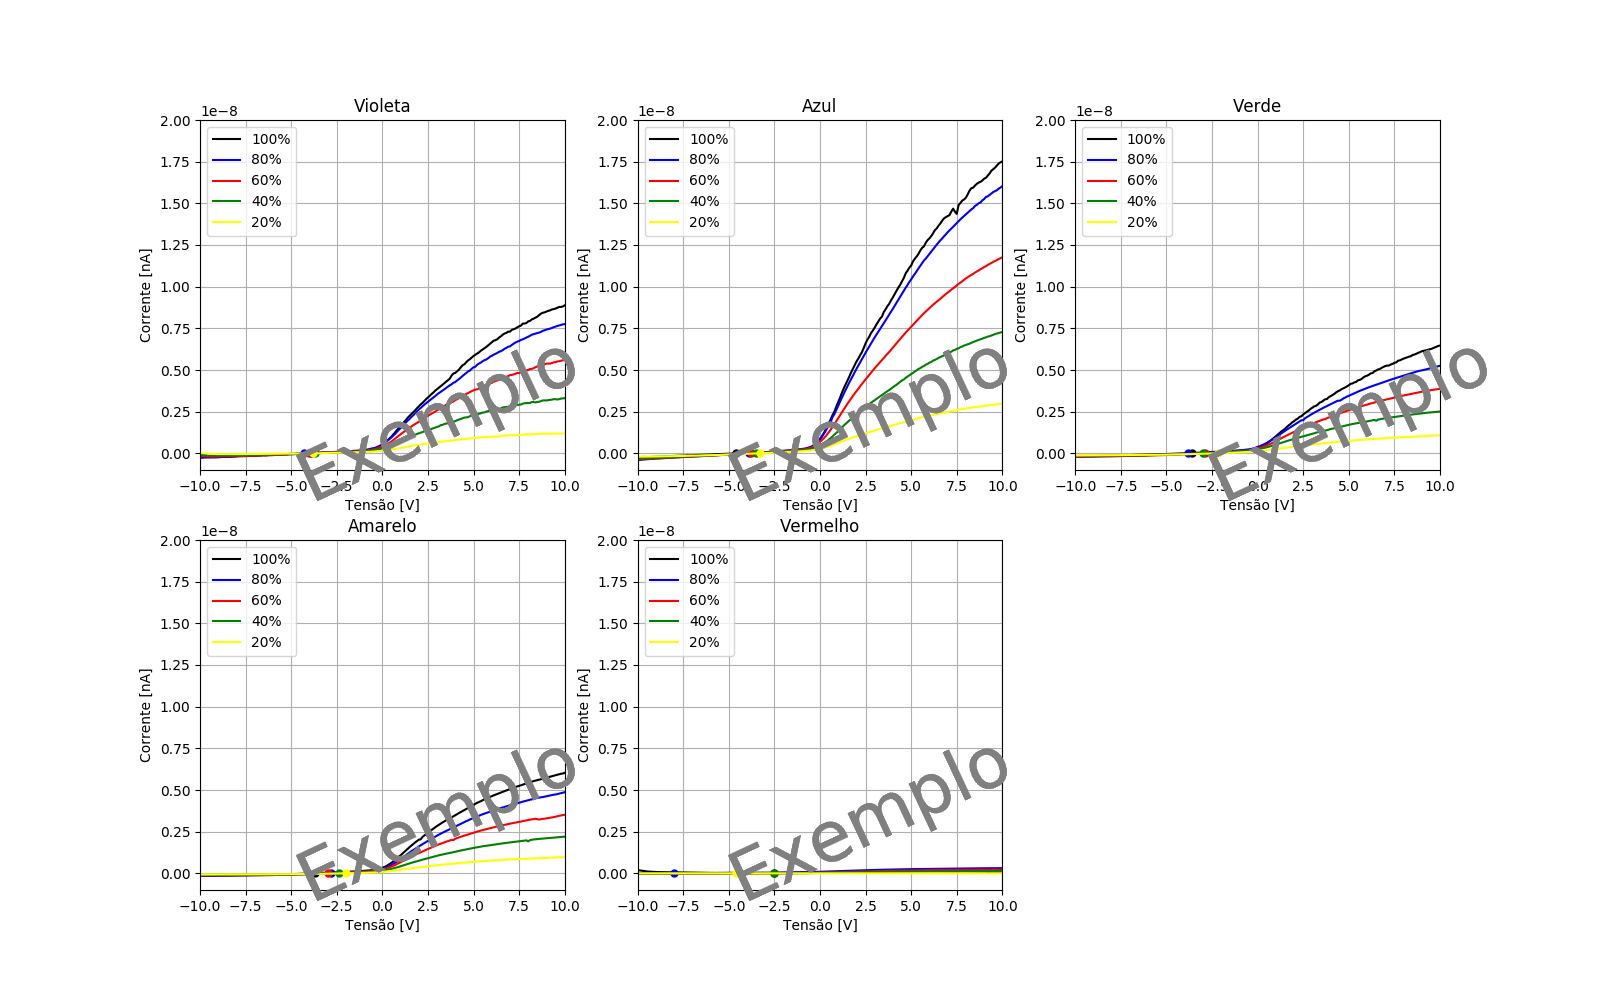
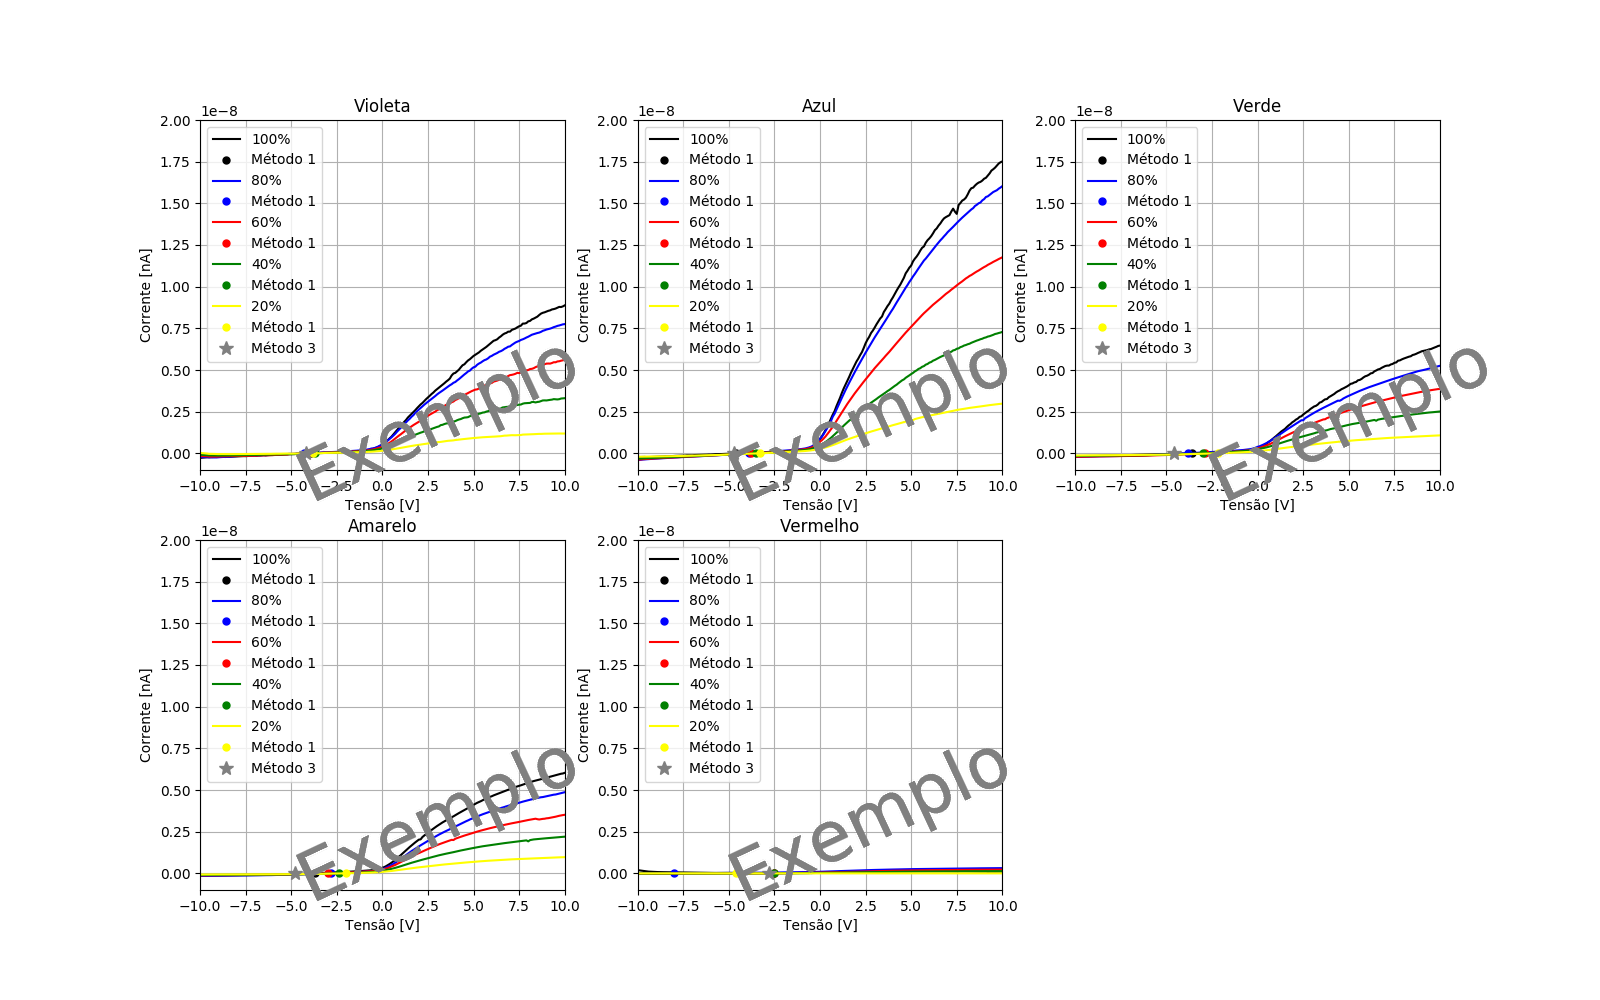
Version 5.2 - Add Method 3

diff --git a/medida.py b/medida.py
@@ -1,8 +1,8 @@
 ################################################################
 # Redução de Dados Física Experimental V - Efeito Fotoelétrico #
 # Matheus J. Castro                                            #
-# Version 4.1                                                  #
-# Last Modification: 7 de Março de 2020                        #
+# Version 5.2                                                  #
+# Last Modification: 8 de Março de 2020                        #
 ################################################################
 
 import numpy as np
@@ -12,7 +12,9 @@ import matplotlib.pyplot as plt
 cores = ["violeta", "azul", "verde", "amarelo", "vermelho"]
 intensidade = [100, 80, 60, 40, 20]
 dias = ["0503", "0603"]  # modifique essa lista colocando os dias que houve tomada de dados
-                         # apenas fomato DDMM entre aspas duplas
+
+
+# apenas fomato DDMM entre aspas duplas
 
 
 def input_data():
@@ -49,14 +51,14 @@ def noise_removal(final_data, noise_bias, noise_lamp, bias=1, lamp=1):
                 if i in final_data and j in final_data[i] and k in final_data[i][j]:
                     reduce = []
                     for m in range(len(noise_bias[0])):
-                        reduce.append(final_data[i][j][k][m][1] - (bias*noise_bias[dias.index(i)][m][1] +
-                                                                   lamp*noise_lamp[dias.index(i)][m][1]))
+                        reduce.append(final_data[i][j][k][m][1] - (bias * noise_bias[dias.index(i)][m][1] +
+                                                                   lamp * noise_lamp[dias.index(i)][m][1]))
                     final_data[i][j][k] = [final_data[i][j][k].T[0], reduce]
 
     return final_data
 
 
-def plot_all(data, method_1, save=False, show_meth_1=False):
+def plot_all(data, meth_1, meth_3, save=False, show_meth_1=False, show_meth_3=False):
     color = {100: "black", 80: "blue", 60: "red", 40: "green", 20: "yellow"}
     if (len(cores) % 2) == 0:
         col = len(cores) / 2
@@ -66,7 +68,7 @@ def plot_all(data, method_1, save=False, show_meth_1=False):
     plt.figure(figsize=(16, 10))
 
     for j in range(len(cores)):
-        plt.subplot(2, col, j+1)
+        plt.subplot(2, col, j + 1)
         plt.xlabel("Tensão [V]")
         plt.ylabel("Corrente [nA]")
         plt.title(cores[j].capitalize())
@@ -85,7 +87,9 @@ def plot_all(data, method_1, save=False, show_meth_1=False):
                     y = np.array(data[i][cores[j]][k][1])
                     legenda.append(plt.plot(x, y, "-", markersize=1, color=color[k], label="{}%".format(k)))
                     if show_meth_1:
-                        plt.plot(method_1["{}_{}_{}".format(i, cores[j], k)], 0, ".", markersize=10, color=color[k])
+                        plt.plot(meth_1["{}_{}_{}".format(i, cores[j], k)], 0, ".", markersize=10, color=color[k], label="Método 1")
+        if show_meth_3:
+            plt.plot(meth_3["{}".format(cores[j])], 0, "*", markersize=10, color="gray", label="Método 3")
         plt.legend(loc="upper left")
         plt.grid()
 
@@ -94,7 +98,7 @@ def plot_all(data, method_1, save=False, show_meth_1=False):
     plt.show()
 
 
-def plot_same_intensity(data, method_1, k=100, save=False, show_meth_1=False):
+def plot_same_intensity(data, meth_1, meth_3, k=100, save=False, show_meth_1=False, show_meth_3=False):
     color = {cores[0]: "violet", cores[1]: "blue", cores[2]: "green", cores[3]: "yellow", cores[4]: "red"}
 
     plt.figure(figsize=(8, 4.5))
@@ -111,7 +115,9 @@ def plot_same_intensity(data, method_1, k=100, save=False, show_meth_1=False):
                 y = np.array(data[i][j][k][1])
                 plt.plot(x, y, "-", markersize=1, color=color[j], label=j.capitalize())
                 if show_meth_1:
-                    plt.plot(method_1["{}_{}_{}".format(i, j, k)], 0, ".", markersize=10, color=color[j])
+                    plt.plot(meth_1["{}_{}_{}".format(i, j, k)], 0, ".", markersize=10, color=color[j])
+        if show_meth_3:
+            plt.plot(meth_3["{}".format(j)], 0, "*", markersize=10, color=color[j])
     plt.legend()
     plt.grid()
 
@@ -152,13 +158,55 @@ def method_1(data, save=False):
     return results
 
 
+def method_3(data, save=False):
+    results = {}
+    for j in cores:
+        par_result = []
+        for k in range(len(intensidade)):
+            cur = True
+            las = True
+            current = []
+            last = []
+            while (cur is True) or (las is True):
+                for i in dias:
+                    if j in data[i] and intensidade[k] in data[i][j]:
+                        current = data[i][j][intensidade[k]]
+                        cur = False
+                    if j in data[i] and intensidade[k - 1] in data[i][j]:
+                        last = data[i][j][intensidade[k - 1]]
+                        las = False
+            compar = []
+            for m in range(len(current[1])):
+                if current[1][m] - last[1][m] < 0:
+                    compar.append([current[0][m], -(current[1][m] - last[1][m])])
+                else:
+                    compar.append([current[0][m], current[1][m] - last[1][m]])
+            compar = np.asarray(compar).T
+            par_result.append(compar[0][list(compar[1]).index(min(compar[1]))])
+
+            par_result.sort()
+            if len(par_result) % 2 == 1:
+                results["{}".format(j)] = par_result[len(par_result) // 2]
+            elif len(par_result) % 2 == 0:
+                results["{}".format(j)] = np.mean([par_result[len(par_result) // 2 - 1],
+                                                   par_result[len(par_result) // 2]])
+    if save:
+        if not os.path.exists("reduced_data"):
+            os.mkdir("reduced_data")
+        np.savetxt("reduced_data/3st_method_results.csv", list(results.items()), fmt="%s", delimiter=",")
+
+    return results
+
+
 results_1 = {}
+results_2 = {}
 dt, noi_bias, noi_lamp = input_data()
-reduced = noise_removal(dt, noi_bias, noi_lamp, bias=0, lamp=0)  # troque de 1 para 0 caso não vá remover algum dos
-                                                                 # tipos de ruido
-#save_new_data(reduced)  # descomente essa linha para salvar os dados no formato .csv
+reduced = noise_removal(dt, noi_bias, noi_lamp, bias=1, lamp=0)  # troque de 1 para 0 caso não vá remover algum dos
+# tipos de ruido
+# save_new_data(reduced)  # descomente essa linha para salvar os dados no formato .csv
 #results_1 = method_1(reduced, save=False)  # não está pronto
-#plot_all(reduced, results_1, save=False, show_meth_1=False)  # descomente essa linha para plotar todos os dados
-#plot_same_intensity(reduced, results_1, save=False, k=100, show_meth_1=False)  # descomente essa linha para plotar um grafico com todas as
-                                                # frequencias em uma determinada intensidade (k)
-                                                # caso deseje salvar qualquer plot, troque False para True
+#results_2 = method_3(reduced, save=False)
+#plot_all(reduced, results_1, results_2, save=False, show_meth_1=False, show_meth_3=False)  # descomente essa linha para plotar todos os dados
+#plot_same_intensity(reduced, results_1, results_2, save=False, k=100, show_meth_1=False, show_meth_3=False)   # descomente essa linha para plotar um grafico com todas as
+                                                                                            # frequencias em uma determinada intensidade (k)
+                                                                                            # caso deseje salvar qualquer plot, troque False para True

diff --git a/README.md b/README.md
@@ -72,3 +72,14 @@ Para salvar os resultados em um arquivo *.csv*, troque `False` para `True`. O pr
 Há a possibilidade de plotar os resultados nos gráficos, para isso troque o `False` para `True` em `show_meth_1=False` nas linhas que habilitam o plot dos gráficos, conforme pode ser observado na seção **Plotar e Salvar Gráficos**.
 
 > Para que o plot dos dados do método 1 funcione, é necessário que a linha que executa o método 1 esteja descomentada.
+
+## Método 3
+O método 3 consiste em pegar a interseção das cruvas de intensidade de uma determinada frequência. Para isso o programa pega o valor em Volts da interseção de duas retas, dando como resultado a mediana dos valores.  
+Para executar o método 3, descomente a linha:
+
+	results_2 = method_3(reduced, save=False)
+	
+Para salvar os resultados em um arquivo *.csv*, troque `False` para `True`. O programa cria a pasta `reduced_data` e salva o arquivo com nome "*3st_method_results.csv*" dentro dessa pasta.  
+Há a possibilidade de plotar os resultados nos gráficos, para isso troque o `False` para `True` em `show_meth_3=False` nas linhas que habilitam o plot dos gráficos, conforme pode ser observado na seção **Plotar e Salvar Gráficos**.
+
+> Para que o plot dos dados do método 1 funcione, é necessário que a linha que executa o método 1 esteja descomentada.
